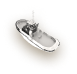
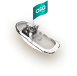
new dist

diff --git a/css/style.css b/css/style.css
@@ -9154,6 +9154,7 @@ div::-webkit-scrollbar-thumb {
 }
 .contacts-map.aos-animate .piter-kaliningrad .car {
   animation: invisCar-piter;
+  animation-delay: 5s;
   animation-duration: 5s;
   animation-timing-function: linear;
   animation-fill-mode: forwards;
@@ -9227,8 +9228,8 @@ div::-webkit-scrollbar-thumb {
   background-image: url("../img/car2.png");
   background-position: center;
   background-repeat: no-repeat;
-  width: 82px;
-  height: 73px;
+  width: 77px;
+  height: 76px;
   -moz-transform: translate(48px, 31px);
   -ms-transform: translate(48px, 31px);
   -webkit-transform: translate(48px, 31px);
@@ -9297,10 +9298,10 @@ div::-webkit-scrollbar-thumb {
 .piter-kaliningrad,
 .ekaterin-moscow,
 .novosib-piter {
-  -webkit-transition: opacity 0.3s 6s;
-  -moz-transition: opacity 0.3s 6s;
-  -o-transition: opacity 0.3s 6s;
-  transition: opacity 0.3s 6s;
+  -webkit-transition: opacity 0.3s 10s;
+  -moz-transition: opacity 0.3s 10s;
+  -o-transition: opacity 0.3s 10s;
+  transition: opacity 0.3s 10s;
 }
 
 @keyframes invisCar-moscow {

diff --git a/scss/desktop.scss b/scss/desktop.scss
@@ -7532,6 +7532,7 @@
       opacity: 0;
       .car {
         animation: invisCar-piter;
+        animation-delay: 5s;
         animation-duration: 5s;
         animation-timing-function: linear;
         animation-fill-mode: forwards;
@@ -7605,8 +7606,8 @@
     background-image: url("../img/car2.png");
     background-position: center;
     background-repeat: no-repeat;
-    width: 82px;
-    height: 73px;
+    width: 77px;
+    height: 76px;
     @include transform(translate(48px, 31px));
     opacity: 1;
   }
@@ -7666,7 +7667,7 @@
 .piter-kaliningrad,
 .ekaterin-moscow,
 .novosib-piter {
-  @include transition(opacity 0.3s 6s);
+  @include transition(opacity 0.3s 10s);
 }
 
 @keyframes invisCar-moscow {
